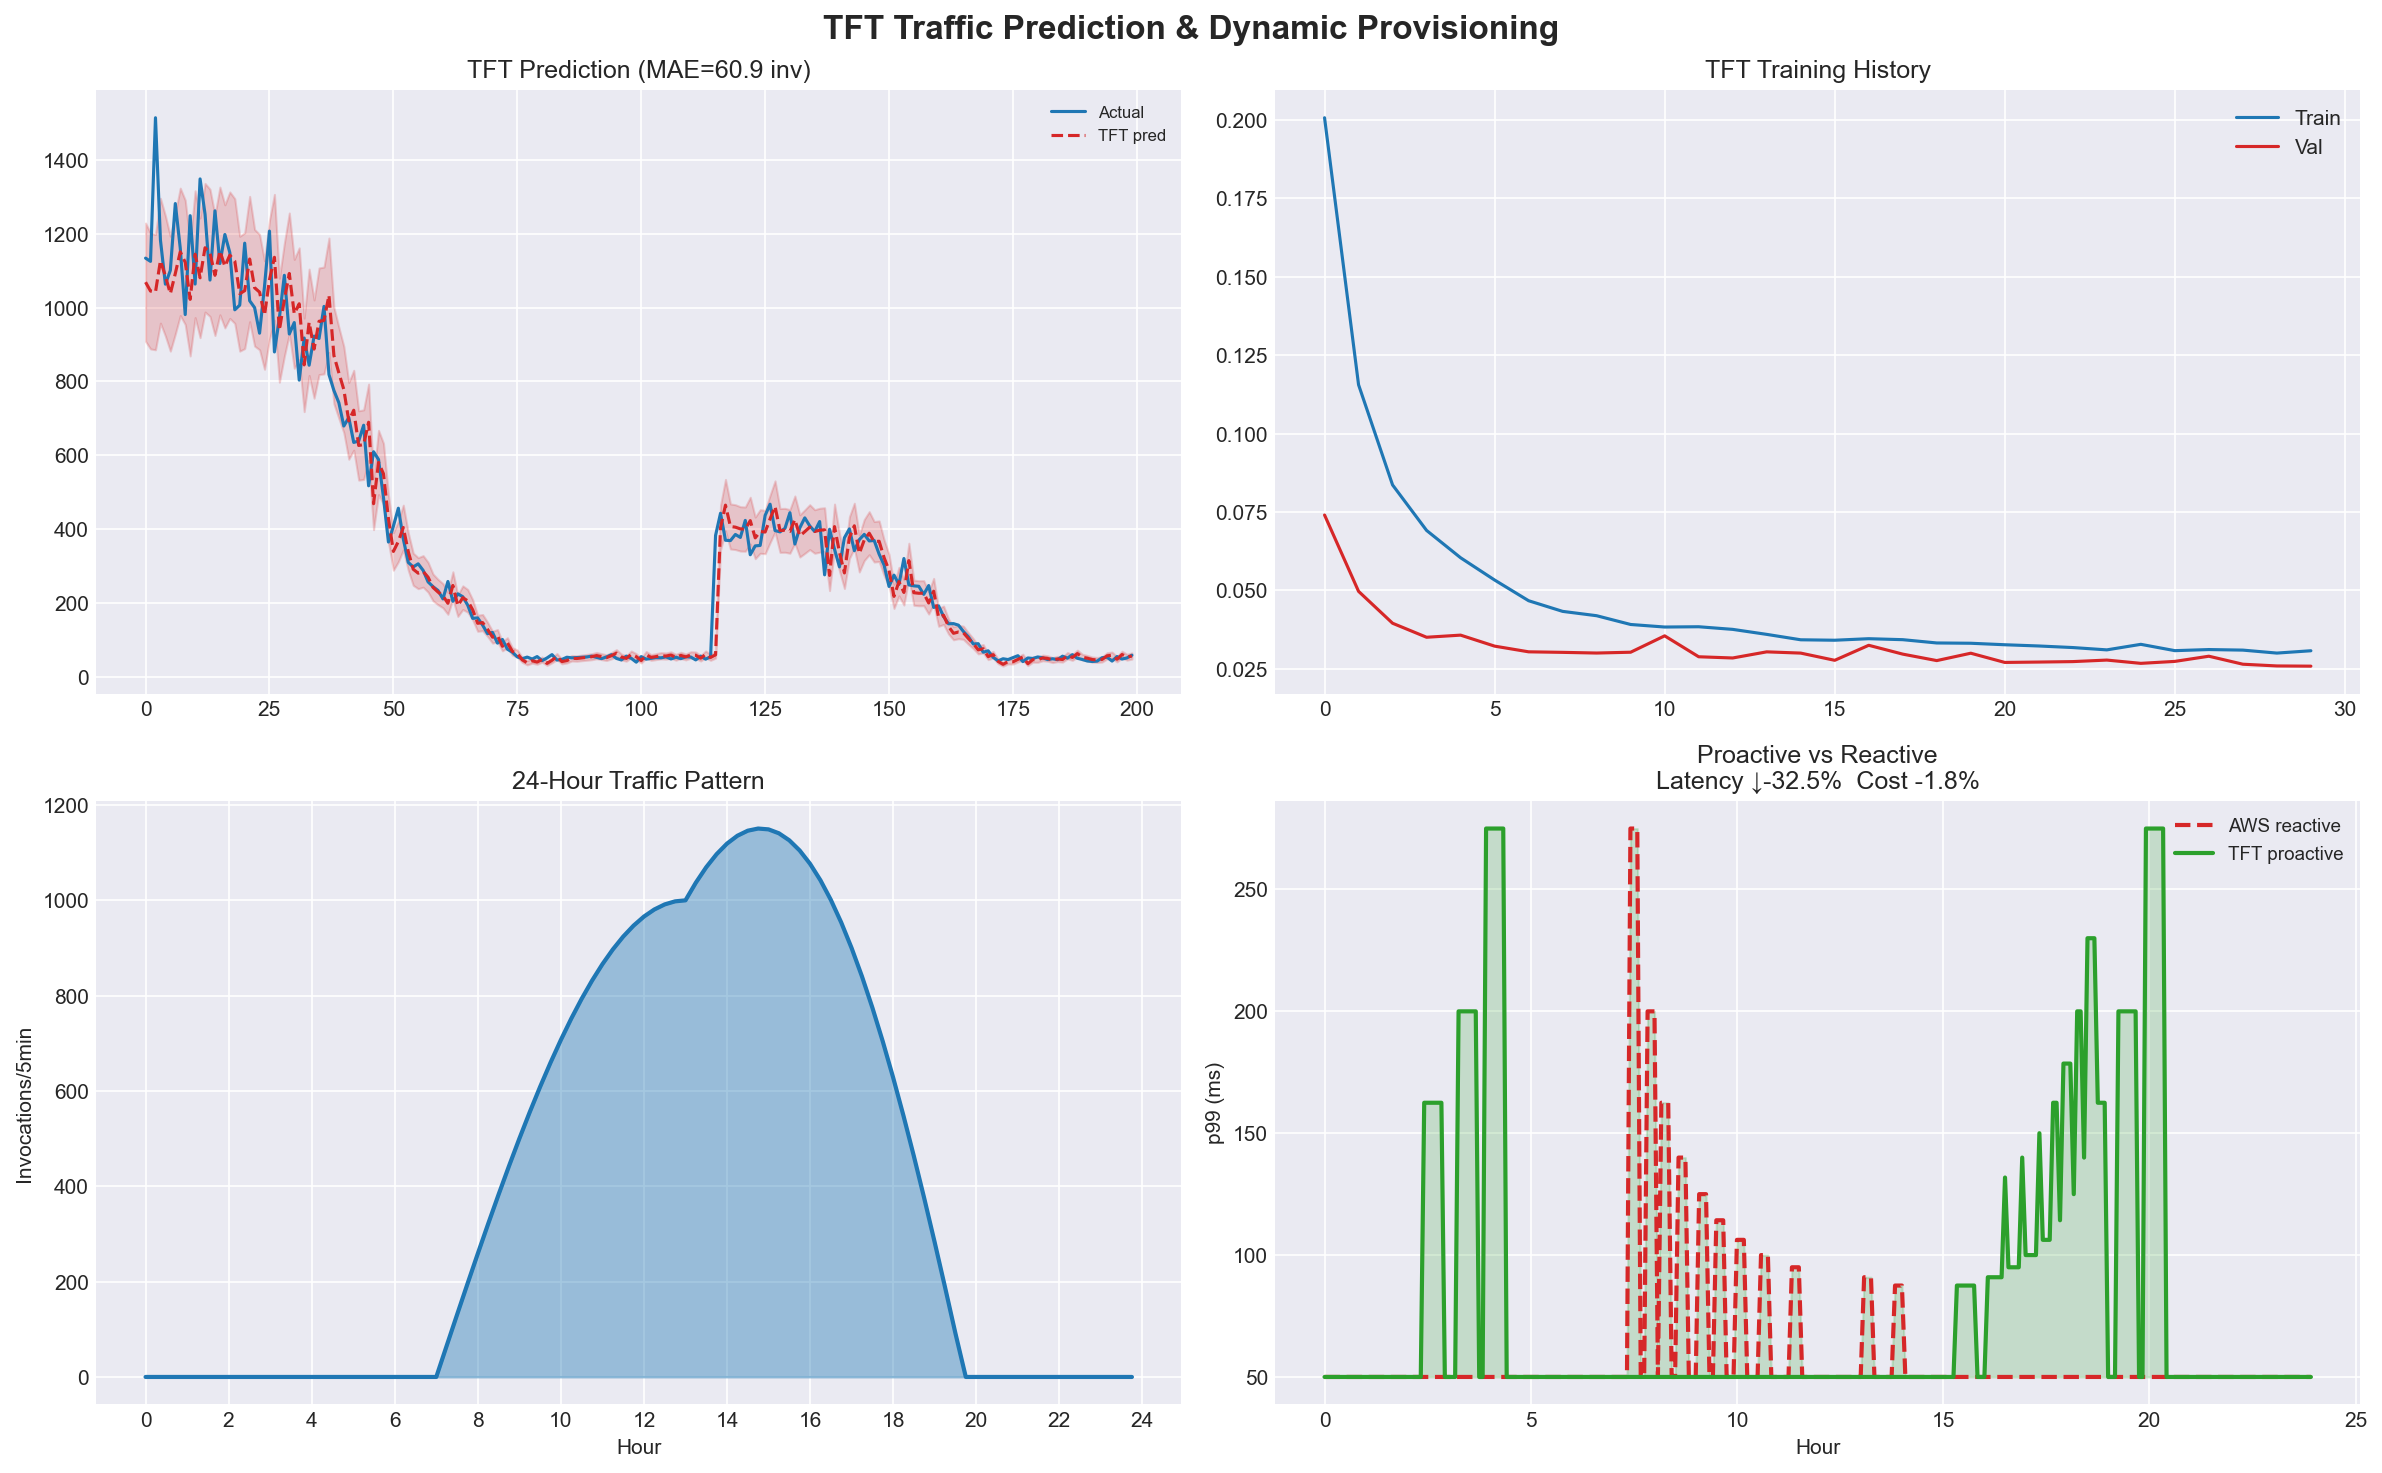
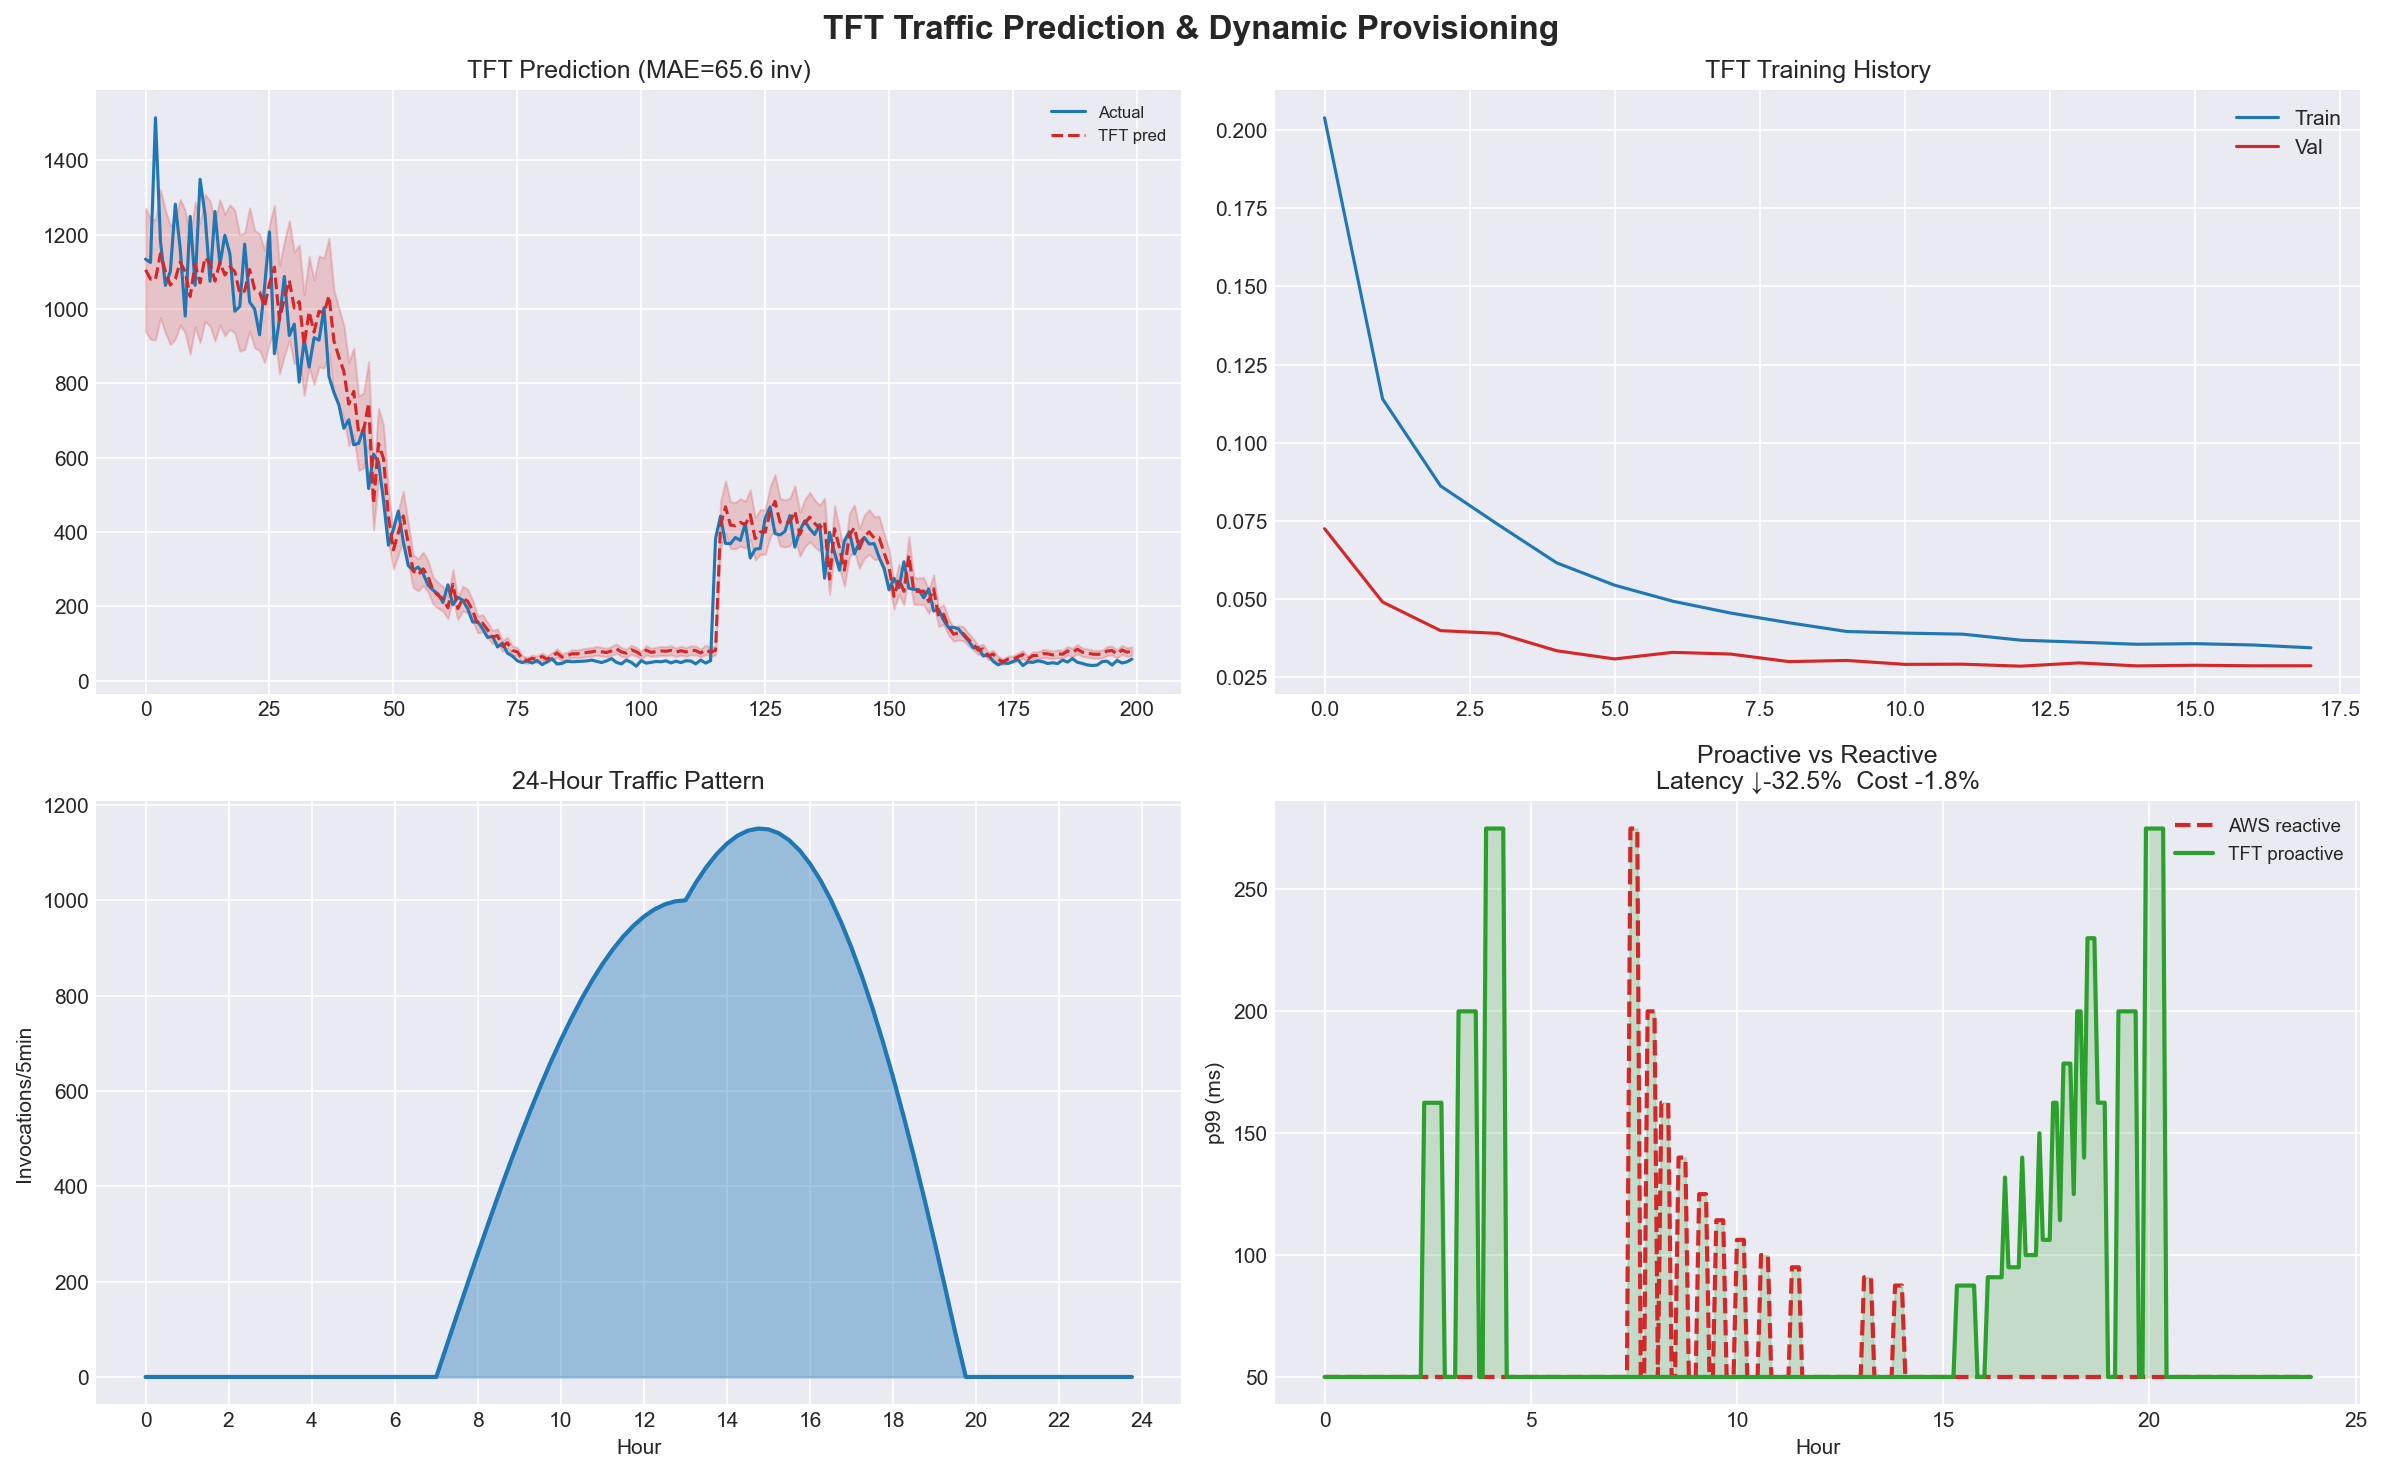
Figures and code updated

diff --git a/train_models.py b/train_models.py
@@ -53,7 +53,7 @@ ML_FEATURES    = ['memory_size_mb','vpc_flag','provisioned_flag','container_flag
                   'simulated_traffic_level']
 ML_TARGET      = 'init_duration_ms'
 COLD_MASK_COL  = 'cold_start_flag'
-QUANTILES      = [0.10, 0.50, 0.90]
+QUANTILES      = [0.05, 0.10, 0.50, 0.90, 0.95]
 TRAIN_VARIANTS = ['non-vpc', 'vpc', 'provisioned']
 
 def sine_wave_traffic(hour):
@@ -124,10 +124,10 @@ def train_quantile_regression(X_tr,X_te,y_tr,y_te,scaler):
         pb=pinball_loss(y_te.values,yp,q)
         yp_ms=np.expm1(np.clip(yp,0,None))
         print(f'    q={q:.2f}  pinball_loss={pb:.4f}  pred_range=[{yp_ms.min():.1f}, {yp_ms.max():.1f}]ms')
-        results[f'q{int(q*100)}']={'pinball_loss':pb,'pred_min':float(yp_ms.min()),
+        results[f'q{int(q*100):02d}']={'pinball_loss':pb,'pred_min':float(yp_ms.min()),
             'pred_max':float(yp_ms.max()),'pred_mean':float(yp_ms.mean())}
-        models[f'q{int(q*100)}']=qr
-    y_lo=models['q10'].predict(X_te); y_hi=models['q90'].predict(X_te)
+        models[f'q{int(q*100):02d}']=qr
+    y_lo=models['q05'].predict(X_te); y_hi=models['q95'].predict(X_te)
     cov=float(np.mean((y_te.values>=y_lo)&(y_te.values<=y_hi)))
     print(f'    Coverage (q10-q90 interval): {cov*100:.1f}%  (target: ~80%)')
     results['coverage_q10_q90']=cov
